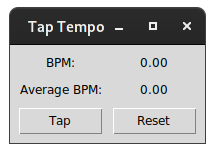
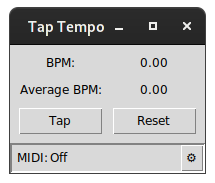
added note about midi in README.md and updated screenshot to show the midi status bar.

diff --git a/README.md b/README.md
@@ -4,4 +4,10 @@
 
 This is a simple Program to tap-in a tempo.  It calculates the time
 between to taps in BPM as well as the average BPM of multiple taps.
-The GUI is build with tkinter.
+It is also possible to connect a MIDI device as tapping input.  The
+GUI is build with tkinter.
+
+## Installation
+
+The programm is available via pip: ``pip install taptempo``.
+
